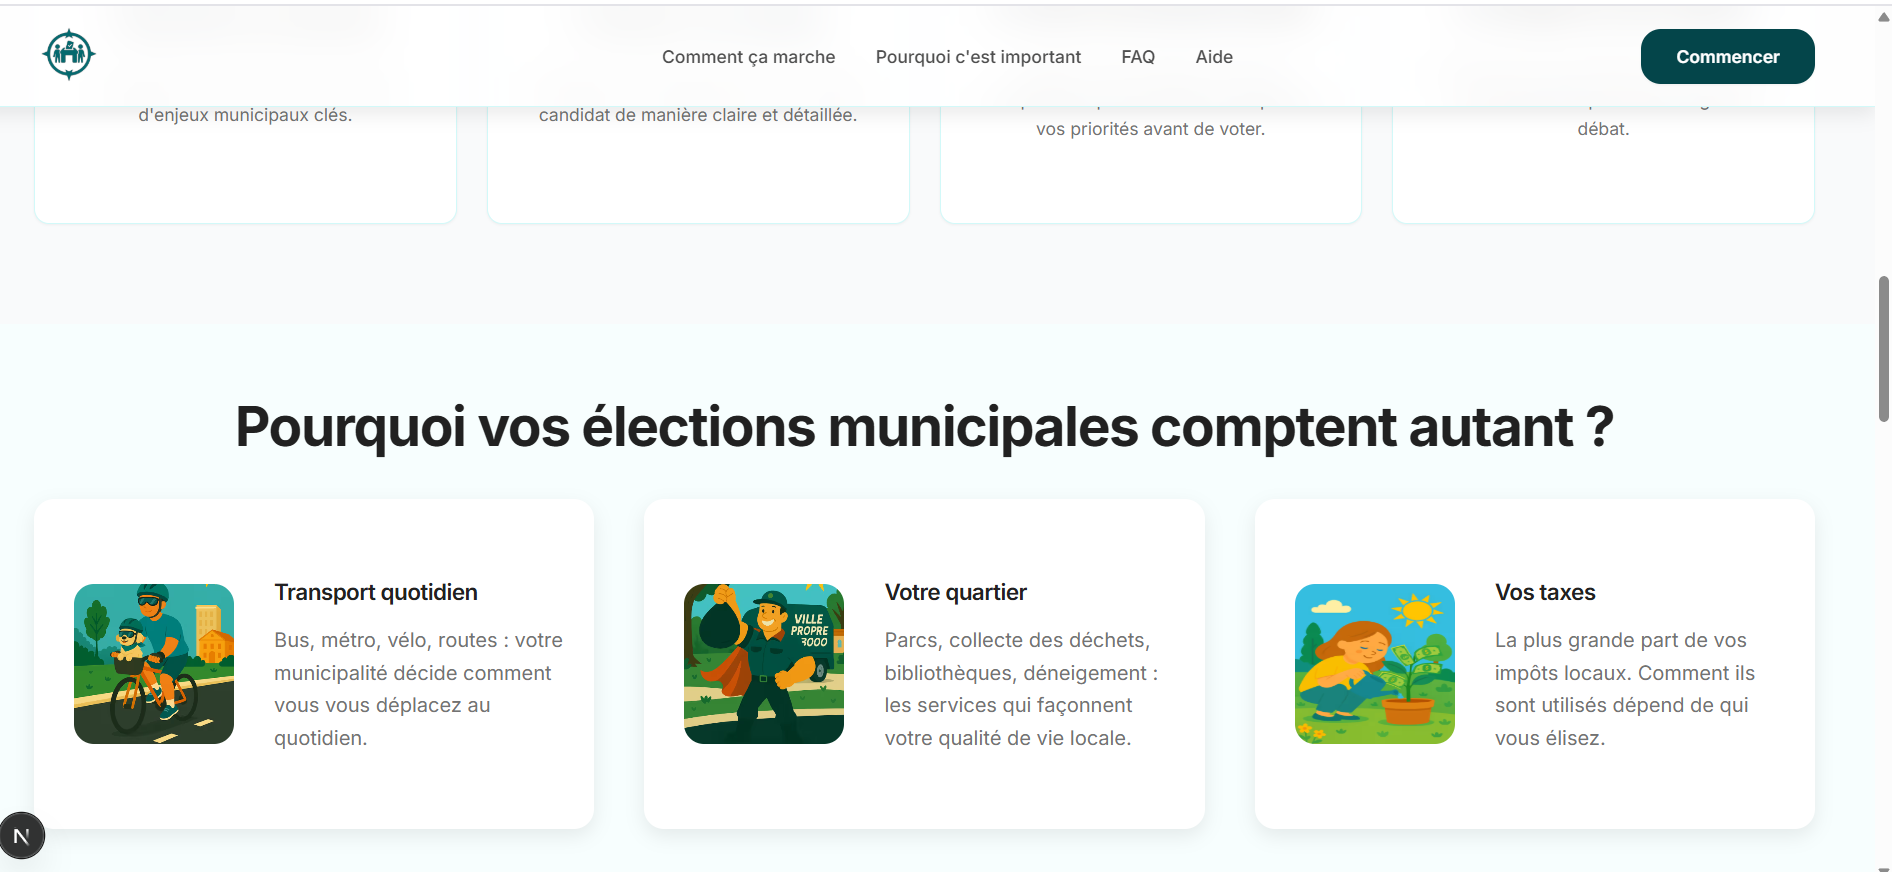
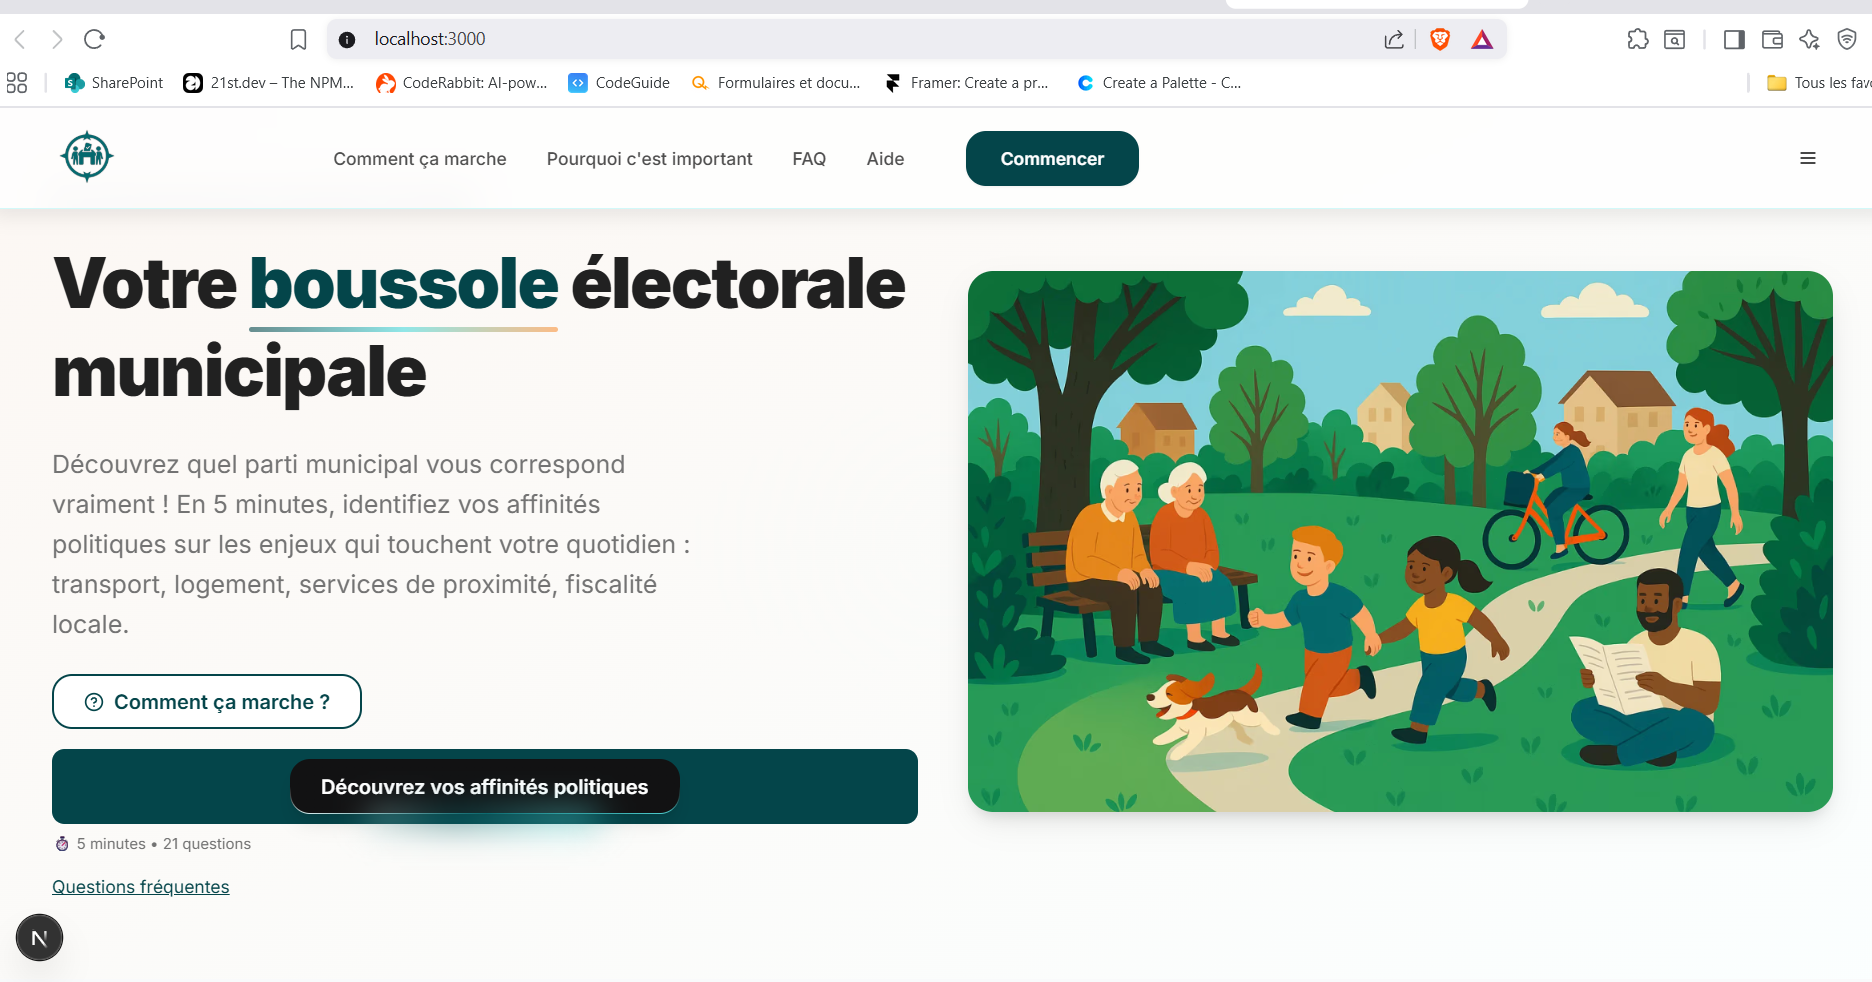
fix: slow down rainbow animation and fix desktop header layout
- Slow down rainbow animation from 2s to 8s for subtle professional effect
- Fix header responsive layout to prevent hamburger menu showing on desktop
- Restructure header with proper positioning: logo (left), navigation (center), button (right)
- Use absolute positioning for centered navigation on desktop
- Ensure mobile hamburger menu only appears on mobile devices

🤖 Generated with [Claude Code](https://claude.ai/code)

diff --git a/components/site-header.tsx b/components/site-header.tsx
@@ -97,7 +97,7 @@ export default function SiteHeader() {
   return (
     <>
       <header className="sticky top-0 z-50 w-full border-b bg-white/80 backdrop-blur-lg shadow-soft">
-        <div className="container flex h-20 items-center">
+        <div className="container flex h-20 items-center justify-between">
           {/* Logo - Parfaitement aligné à gauche */}
           <Link href="/" className="flex items-center shrink-0 h-[56px]">
             <div className="relative h-full w-36 sm:w-40 md:w-44">
@@ -114,8 +114,8 @@ export default function SiteHeader() {
             </div>
           </Link>
 
-          {/* Navigation centrée - Design moderne */}
-          <nav className="hidden md:flex items-center justify-center flex-1 space-x-8">
+          {/* Navigation centrée - Design moderne (Desktop seulement) */}
+          <nav className="absolute left-1/2 transform -translate-x-1/2 hidden md:flex items-center space-x-8">
             <Link href="/comment-ca-marche" className="text-sm font-medium text-foreground/80 hover:text-midnight-green transition-colors duration-200">
               Comment ça marche
             </Link>
@@ -130,8 +130,8 @@ export default function SiteHeader() {
             </Link>
           </nav>
 
-          {/* Action Button à droite */}
-          <div className="hidden md:flex items-center">
+          {/* Action Button à droite (Desktop seulement) */}
+          <div className="hidden md:block">
             {!shouldHideStartButton ? (
               <Button
                 onClick={handleStartQuestionnaire}
@@ -140,7 +140,6 @@ export default function SiteHeader() {
                 Commencer
               </Button>
             ) : (
-              // Bouton &quot;Accueil&quot; simple - pas de modal
               <Button
                 onClick={handleGoHome}
                 variant="outline"
@@ -151,8 +150,8 @@ export default function SiteHeader() {
             )}
           </div>
 
-          {/* Mobile Navigation Trigger - Aligné à droite */}
-          <div className="md:hidden flex-1 flex justify-end">
+          {/* Mobile Navigation Trigger - Aligné à droite (Mobile seulement) */}
+          <div className="block md:hidden">
             <Sheet>
               <SheetTrigger asChild>
                 <Button

diff --git a/tailwind.config.ts b/tailwind.config.ts
@@ -196,7 +196,7 @@ const config = {
   			pulseScale: 'pulseScale 3s ease-in-out infinite',
   			aurora: 'aurora 60s linear infinite',
   			'border-pulse': 'border-pulse 6s ease-in-out infinite',
-  			rainbow: 'rainbow var(--speed, 2s) infinite linear'
+  			rainbow: 'rainbow var(--speed, 8s) infinite linear'
   		},
   		fontFamily: {
   			sans: [
